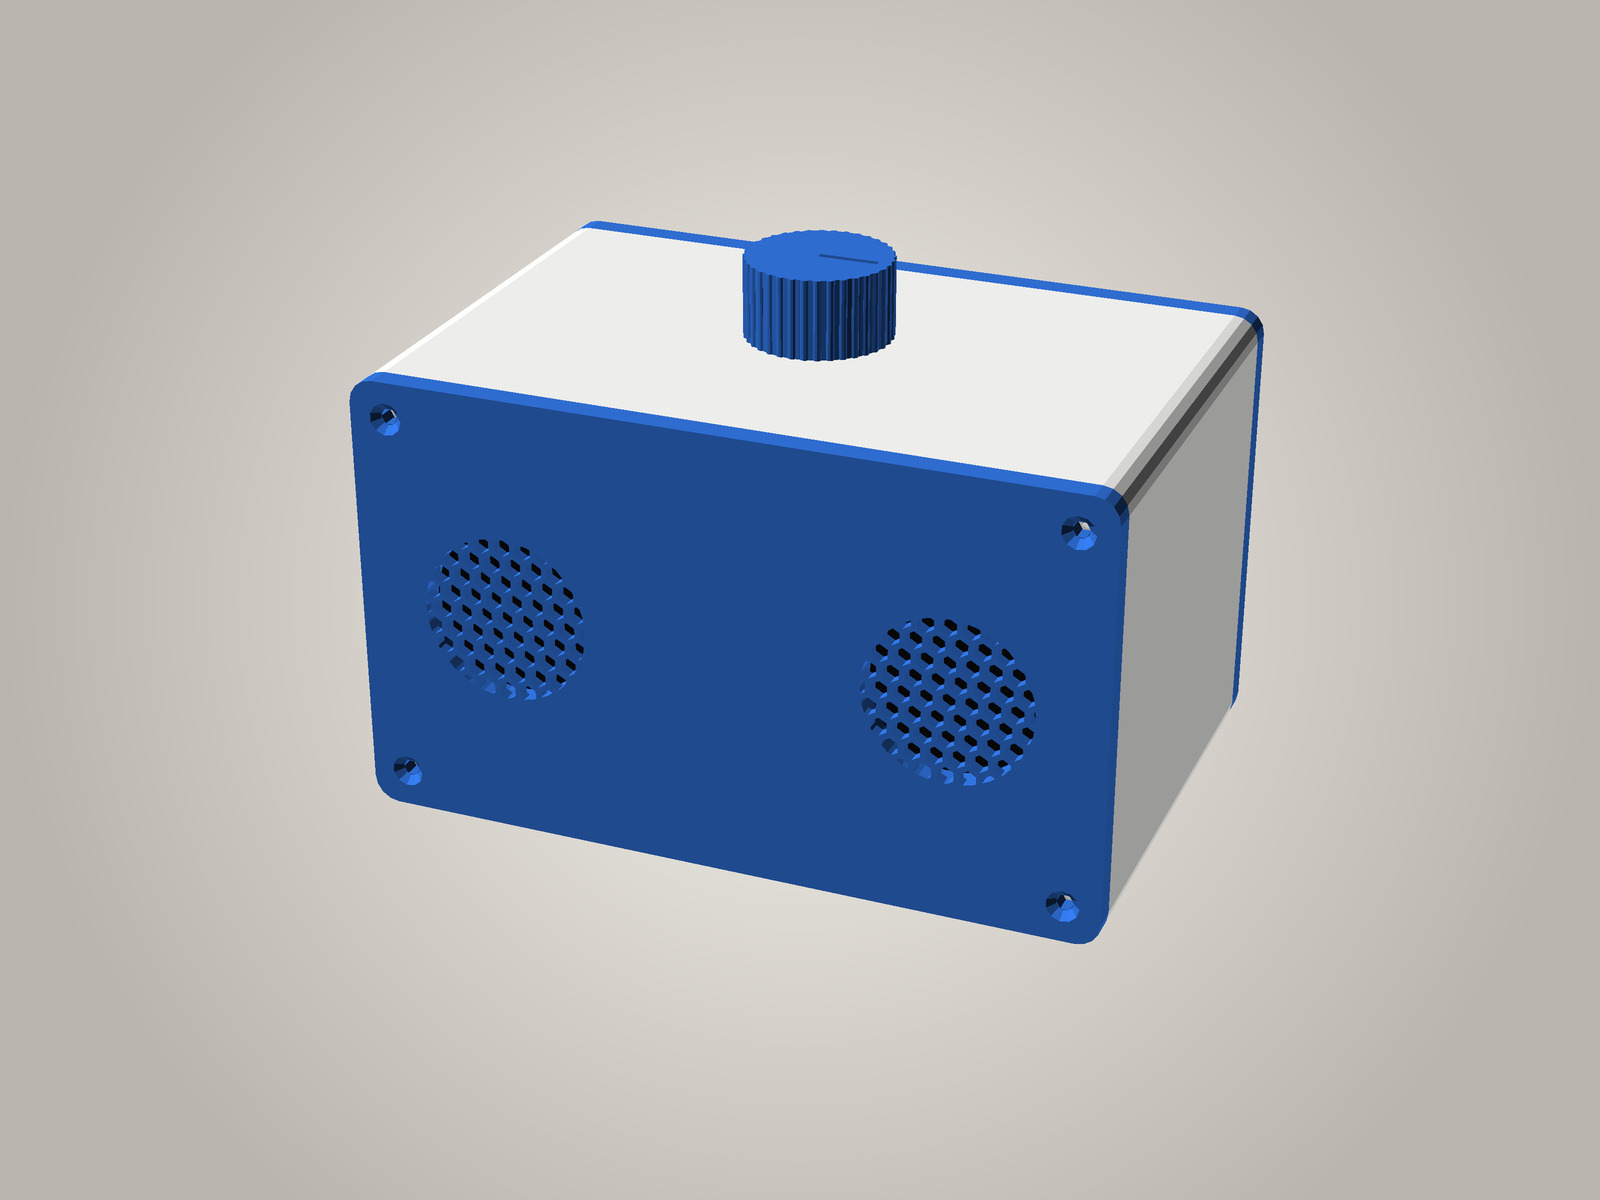
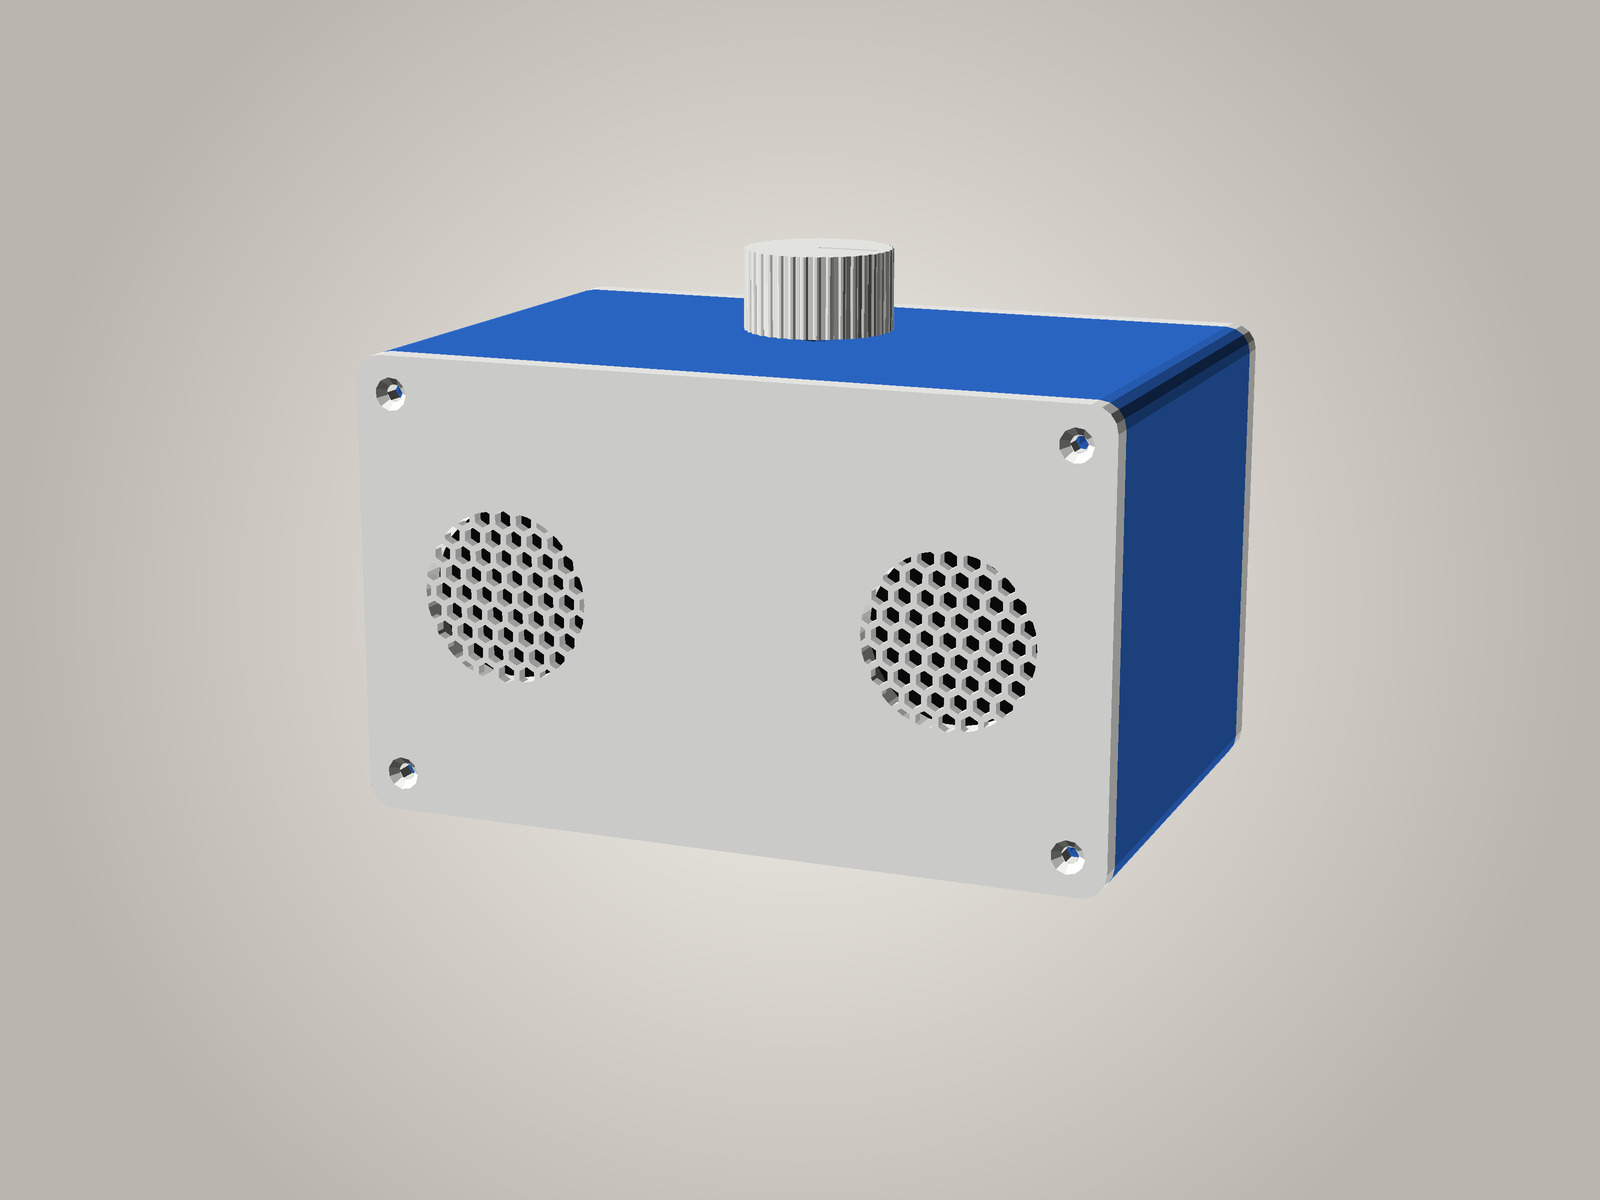
Case pictures: blue body with a white front, back and knob
mockup.scad's colours are now a blue tube with white panels and knob, and
make-mockup.sh's camera is a little lower (76 degrees, was 64) so the white
front faces the light and reads as white, not grey. All three pictures
re-rendered; README captions updated.

Changed region(s): [[0.2188, 0.185, 0.8125, 0.8017]]

diff --git a/hardware/case/README.md b/hardware/case/README.md
@@ -1,6 +1,6 @@
 # SleepRadioPi box
 
-![The finished radio: white body, blue panels and knob, sunburst grilles and knob, SLEEP RADIO lettering](mockup_logo_sunburst.jpg)
+![The finished radio: blue body, white front, back and knob, sunburst grilles and knob, SLEEP RADIO lettering](mockup_logo_sunburst.jpg)
 
 > **Work in progress.** The front and back panels have been printed and fitted;
 > the full tube hasn't been printed yet, and the speaker sizes below are still

diff --git a/README.md b/README.md
@@ -16,7 +16,7 @@ This repo builds everything: a small, fast-booting, read-only Linux image
 (Buildroot) that you can pull the plug on at any moment, with the radio
 software, and the case to print.
 
-![The radio: white body, blue panels, sunburst grilles and knob](hardware/case/mockup_logo_sunburst.jpg)
+![The radio: blue body, white front, back and knob, sunburst grilles and knob](hardware/case/mockup_logo_sunburst.jpg)
 
 ## What it does
 
